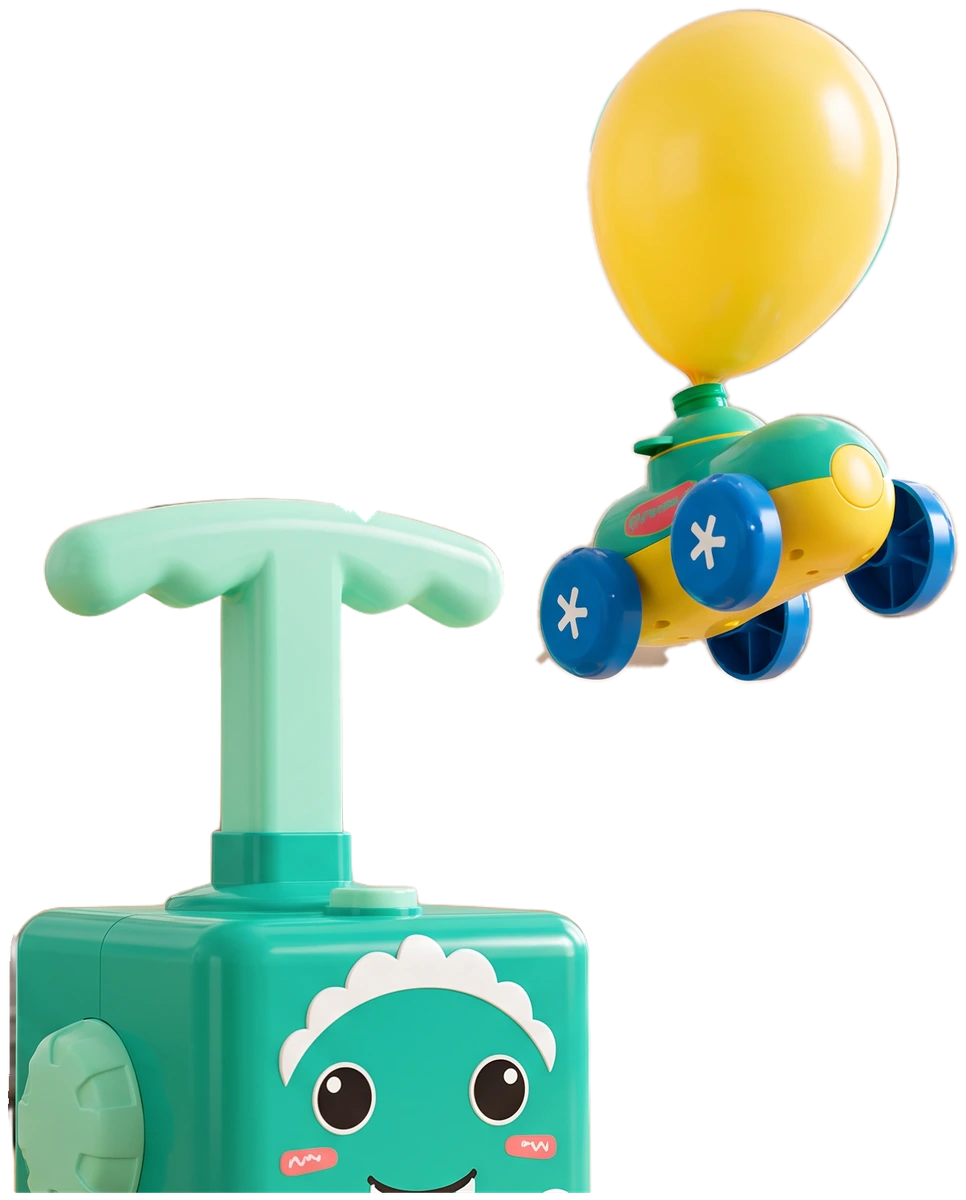
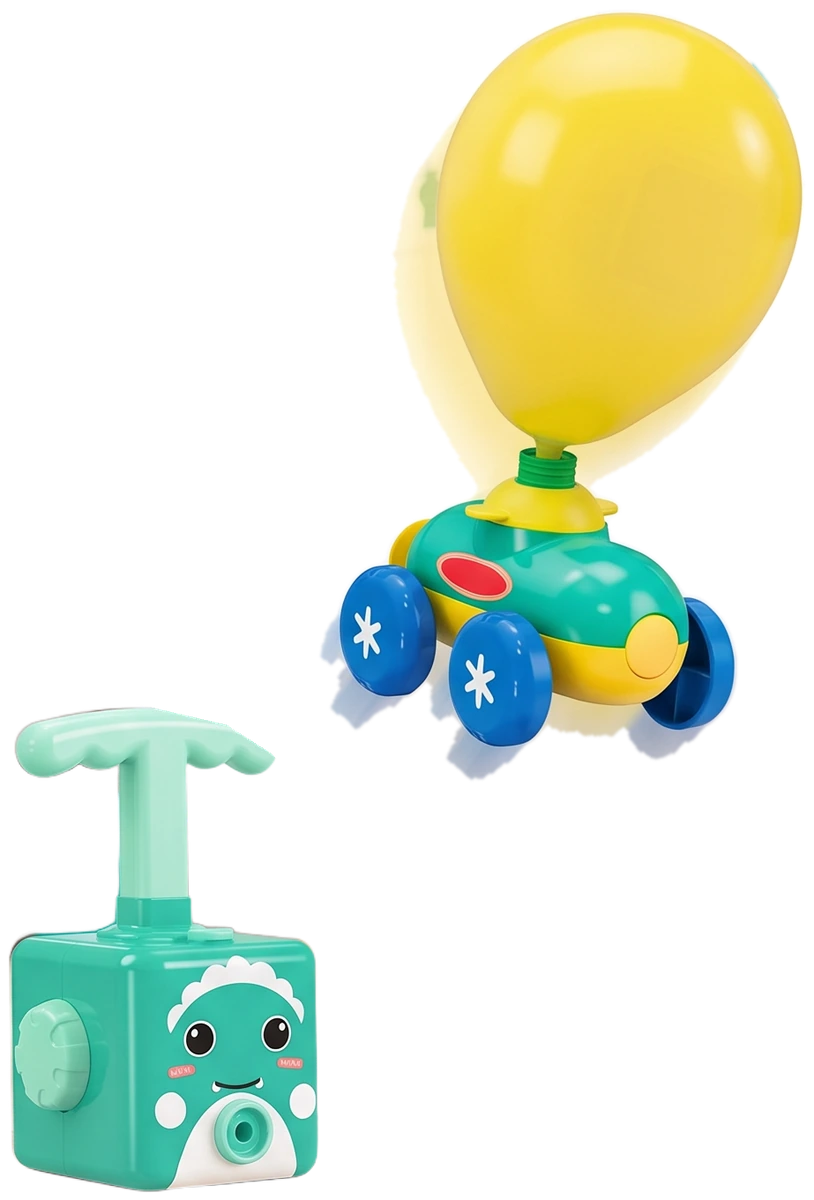
Дракон снят с той же дистанции, что медведь и монстр: насос маленький на полу, машинка далеко вверху
- сцена по референсу композиции медведя, вырезка через оболочку разницы и ISNet
- фон без товара дорисован без подменного шара

diff --git a/products.js b/products.js
@@ -58,7 +58,7 @@ const ТОВАРЫ = [
     герой: 'photo/drakon-hero.webp',
     миниатюра: 'photo/drakon-thumb.webp',
     сцена: 'photo/bg/drakon.webp',
-    геройБокс: [0.3125, 0.0771, 0.5884, 0.731],
+    геройБокс: [0.3901, 0.1611, 0.4507, 0.6641],
     палитра: { фон: '#0A4F44', фон2: '#063A32', акцент: '#FFD23F', акцент2: '#2F7BE8', текст: '#FFFFFF', текст2: '#CDEBE3', логотип: 'светлый' },
     ссылки: {
       wb: 'https://www.wildberries.ru/catalog/333934146/detail.aspx',
